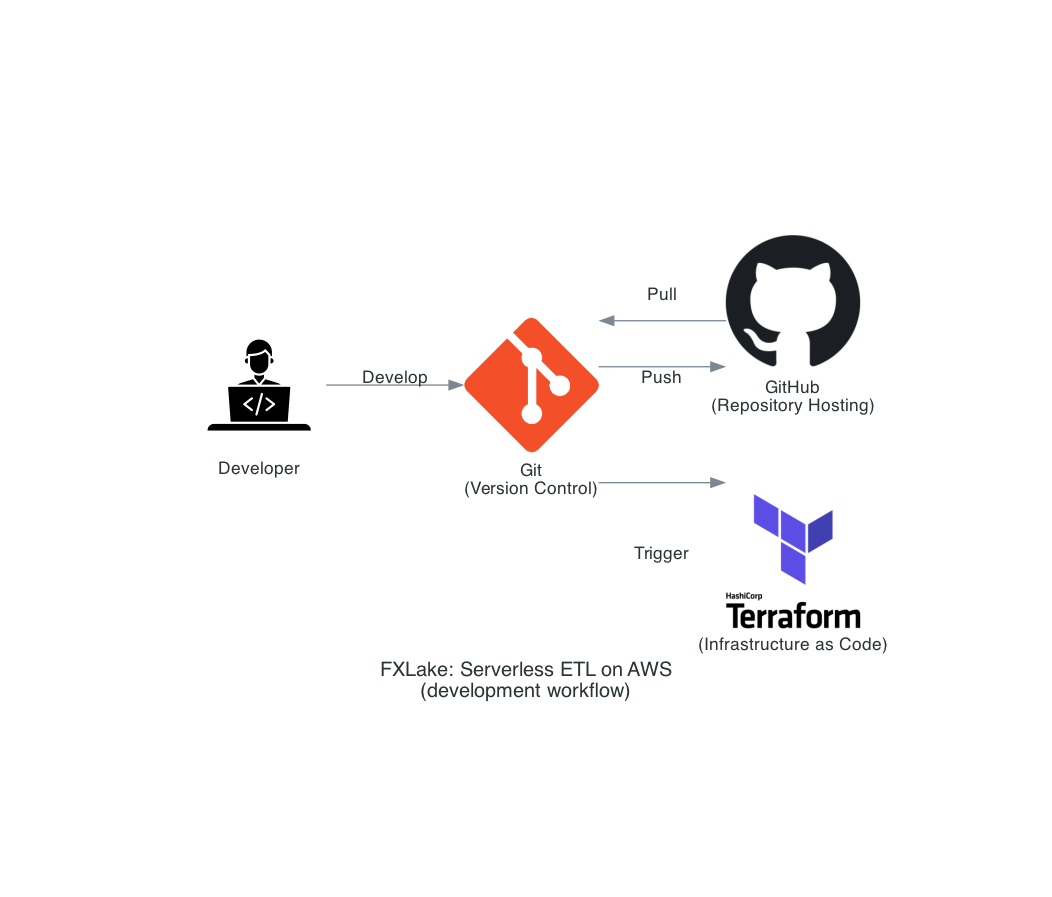
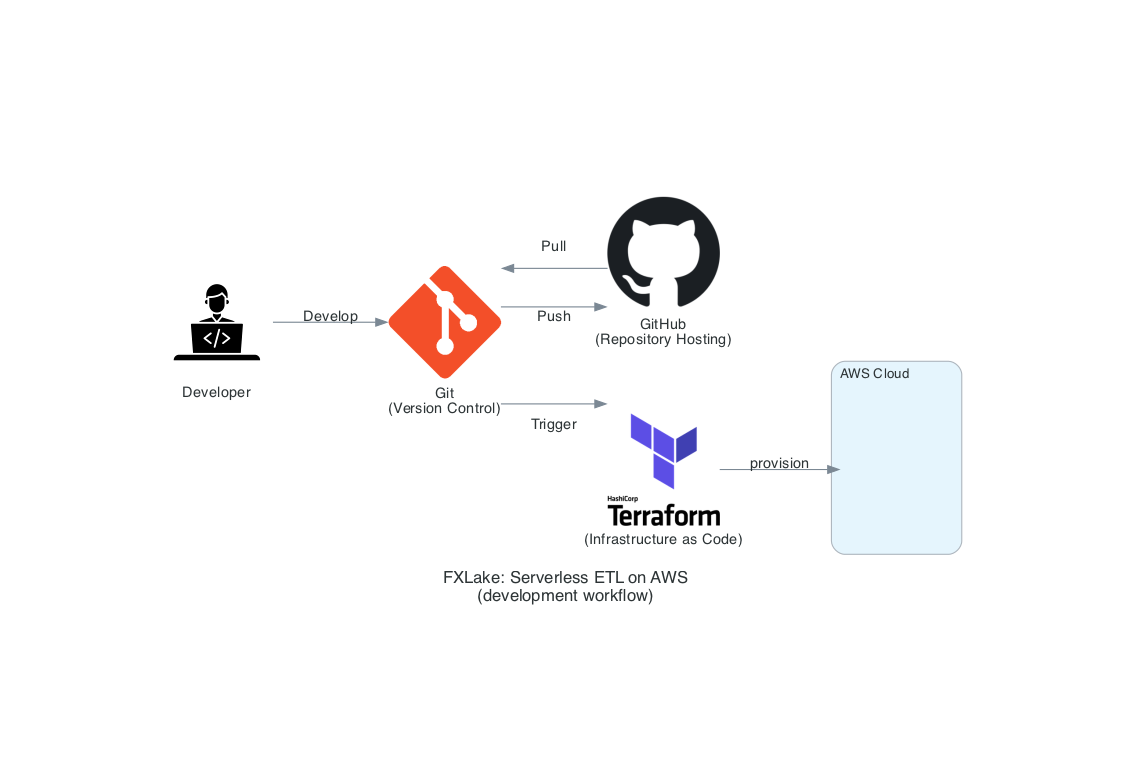
added initial readme.md and minor changes to architecture diagrams

Changed region(s): [[0.1521, 0.25, 0.8517, 0.7812]]

diff --git a/assets/dev-workflow.py b/assets/dev-workflow.py
@@ -1,7 +1,6 @@
 from pathlib import Path
 
-from diagrams import Diagram, Edge
-
+from diagrams import Cluster, Diagram, Edge
 from diagrams.custom import Custom
 from diagrams.onprem.iac import Terraform
 from diagrams.onprem.vcs import Git, Github
@@ -16,6 +15,7 @@ with Diagram(
     filename=str(DIAGRAMS_DIR / "dev-workflow"),
     show=False,
     direction="LR",
+    graph_attr={"size": "12,8"},
 ):
     # Developer environment
     dev = Custom("Developer", str(ICONS_DIR / "dev.jpg"))
@@ -30,3 +30,9 @@ with Diagram(
     )  # Version control interaction with GitHub
 
     git >> Edge(label="Trigger") >> terraform  # Trigger IaC on code push
+
+    with Cluster("AWS Cloud"):
+        aws_cloud = Custom(
+            "", str(ICONS_DIR / "aws.png")
+        )  # Intentionally left blank label and missing icon for AWS cluster representation
+        terraform >> Edge(label="provision") >> aws_cloud  # Provision AWS resources

diff --git a/assets/cloud-architecture.py b/assets/cloud-architecture.py
@@ -21,6 +21,7 @@ with Diagram(
     filename=str(DIAGRAMS_DIR / "cloud-architecture"),
     show=False,
     direction="LR",
+    graph_attr={"size": "12,8"}
 ):
     # External factors
     dev = Custom("Developer", str(ICONS_DIR / "dev.jpg"))

diff --git a/README.md b/README.md
@@ -1,0 +1,121 @@
+# FXLake — Serverless ETL on AWS
+
+This repository contains a deployable scaffold for a serverless ETL pipeline on AWS. It automates the ingestion, transformation, and validation of financial exchange (FX) data using a **modern, event-driven, and cost-efficient architecture**.
+
+Technologies currently in use:
+
+Terraform · S3 · Lambda · Glue · Athena · StepFunctions · EventBridge · IAM · SNS · Cloudwatch · Cloudtrail · Git · Python (Polars)
+
+---
+
+## Table of Contents
+
+- [📖 Overview](#📖-overview)
+  - [📁 Repo Structure](#📁-repo-structure)
+  - [☁ Cloud Architecture](#☁-cloud-architecture)
+  - [🛠 Development Workflow](#🛠-development-workflow)
+  - [✨ Features](#✨-features)
+  - [🧠 Skills Demonstrated](#🧠-skills-demonstrated)
+- [⚙ Prerequisites & Setup](#⚙-prerequisites--setup)
+- [🚀 Future Improvements](#🚀-future-improvements)
+
+## 📖 Overview
+
+### 📁 Repo Structure
+
+```bash
+.
+├── .gitignore
+├── LICENSE
+├── Makefile
+├── README.md
+├── assets
+│   ├── cloud-architecture.py
+│   ├── dev-workflow.py
+│   ├── diagrams
+│   │   ├── cloud-architecture.png
+│   │   └── dev-workflow.png
+│   └── icons
+│       ├── dashboard.png
+│       └── dev.jpg
+├── glue
+│   └── glue_transform.py
+├── lambda
+│   ├── lambda_ingestion_function.py
+│   ├── lambda_validation_function.py
+│   ├── package_lambdas.sh
+│   └── requirements.txt
+└── terraform
+    ├── athena.tf
+    ├── glue.tf
+    ├── iam.tf
+    ├── lambda.tf
+    ├── monitoring.tf
+    ├── outputs.tf
+    ├── providers.tf
+    ├── s3.tf
+    ├── security.tf
+    ├── step_function.tf
+    ├── terraform.tfvars.example
+    └── variables.tf
+```
+
+### ☁ Cloud Architecture
+
+The pipeline orchestrates a serverless ETL flow using AWS services:
+
+- **AWS Lambda** (Python) fetches exchange rates from the [Frankfurter API](https://frankfurter.dev) and stores raw JSON data in S3. It also performs validation by running sample Athena queries.
+- **AWS Glue** (Python Shell with Polars) processes the raw JSON by flattening the rates into tabular format, then writes Parquet/CSV files to a processed S3 bucket.
+- **Amazon Athena** queries the transformed data for analysis and validation purposes.
+- **AWS Step Functions** coordinate the workflow steps: Lambda (extract) → Glue (transform/load) → Athena (query) → Lambda (validation).
+- **Amazon EventBridge** triggers the pipeline execution on a daily schedule.
+- **Amazon CloudWatch** and **SNS** provide monitoring, logging, and alarm notifications for failures or anomalies.
+- **AWS IAM** ensures secure, least-privilege access, while **CloudTrail** records all API activity for auditing.
+- **Terraform** manages all infrastructure provisioning as code for repeatability and version control.
+
+The architectural diagrams of the project were made using [Diagrams](https://diagrams.mingrammer.com) in [cloud-architecture.py](assets/cloud-architecture.py) and [dev-workflow.py](assets/dev-workflow.py).
+
+![FXLake — Serverless ETL on AWS](/assets/diagrams/cloud-architecture.png "cloud architecture diagram of the project")
+
+### 🛠 Development Workflow
+
+![FXLake — Serverless ETL on AWS](/assets/diagrams/dev-workflow.png "development workflow diagram")
+
+### ✨ Features
+
+- **Serverless & Cost-Efficient:** Fully managed pipeline with no EC2 overhead, paying only for what you use.
+- **Automated Orchestration:** Step Functions coordinate the complete ETL workflow from ingestion to validation.
+- **Event-Driven & Scalable:** Triggered daily via EventBridge, leveraging Glue and Polars for efficient data processing.
+- **Robust Monitoring & Alerts:** CloudWatch alarms and SNS notifications ensure pipeline health and rapid incident response.
+- **Secure & Auditable:** Implements IAM least-privilege access and CloudTrail for thorough auditing.
+- **Extensible & Maintainable:** Easy to add new data sources or transformations, with infrastructure managed via Terraform.
+
+### 🧠 Skills Demonstrated
+
+- **Cloud Architecture Design**: Building scalable, fault-tolerant pipelines using AWS managed services.
+- **Serverless Development**: Writing Python Lambdas and Glue jobs optimized for event-driven ETL workflows.
+- **Data Engineering**: Efficiently transforming and querying data using modern tools like Polars and Athena.
+- **Infrastructure Automation**: Defining and managing AWS resources with Terraform for reproducible environments.
+- **Security Best Practices**: Implementing fine-grained IAM policies and auditing with CloudTrail.
+- **Monitoring & Alerting Setup**: Configuring CloudWatch and SNS for real-time pipeline health tracking.
+- **Version Control & Collaboration**: Using Git and GitHub for code management and team workflows.
+
+## ⚙ Prerequisites & Setup
+
+Before deploying, make sure you have the following:
+
+- macOS / Linux terminal
+- AWS CLI configured with credentials
+- Terraform
+- Python 3.10+
+
+Quick setup:
+
+1. Edit `terraform/terraform.tfvars.example` → save as `terraform.tfvars` and replace default bucket names with globally unique ones.
+2. Prepare the Lambda package: `make package` (creates two Lambda `.zip` files)
+3. `make deploy`
+4. (Optional) Run Step Function execution or wait for daily scheduled EventBridge trigger.
+
+## 🚀 Future Improvements
+
+- Add CI/CD deployment with GitHub Actions
